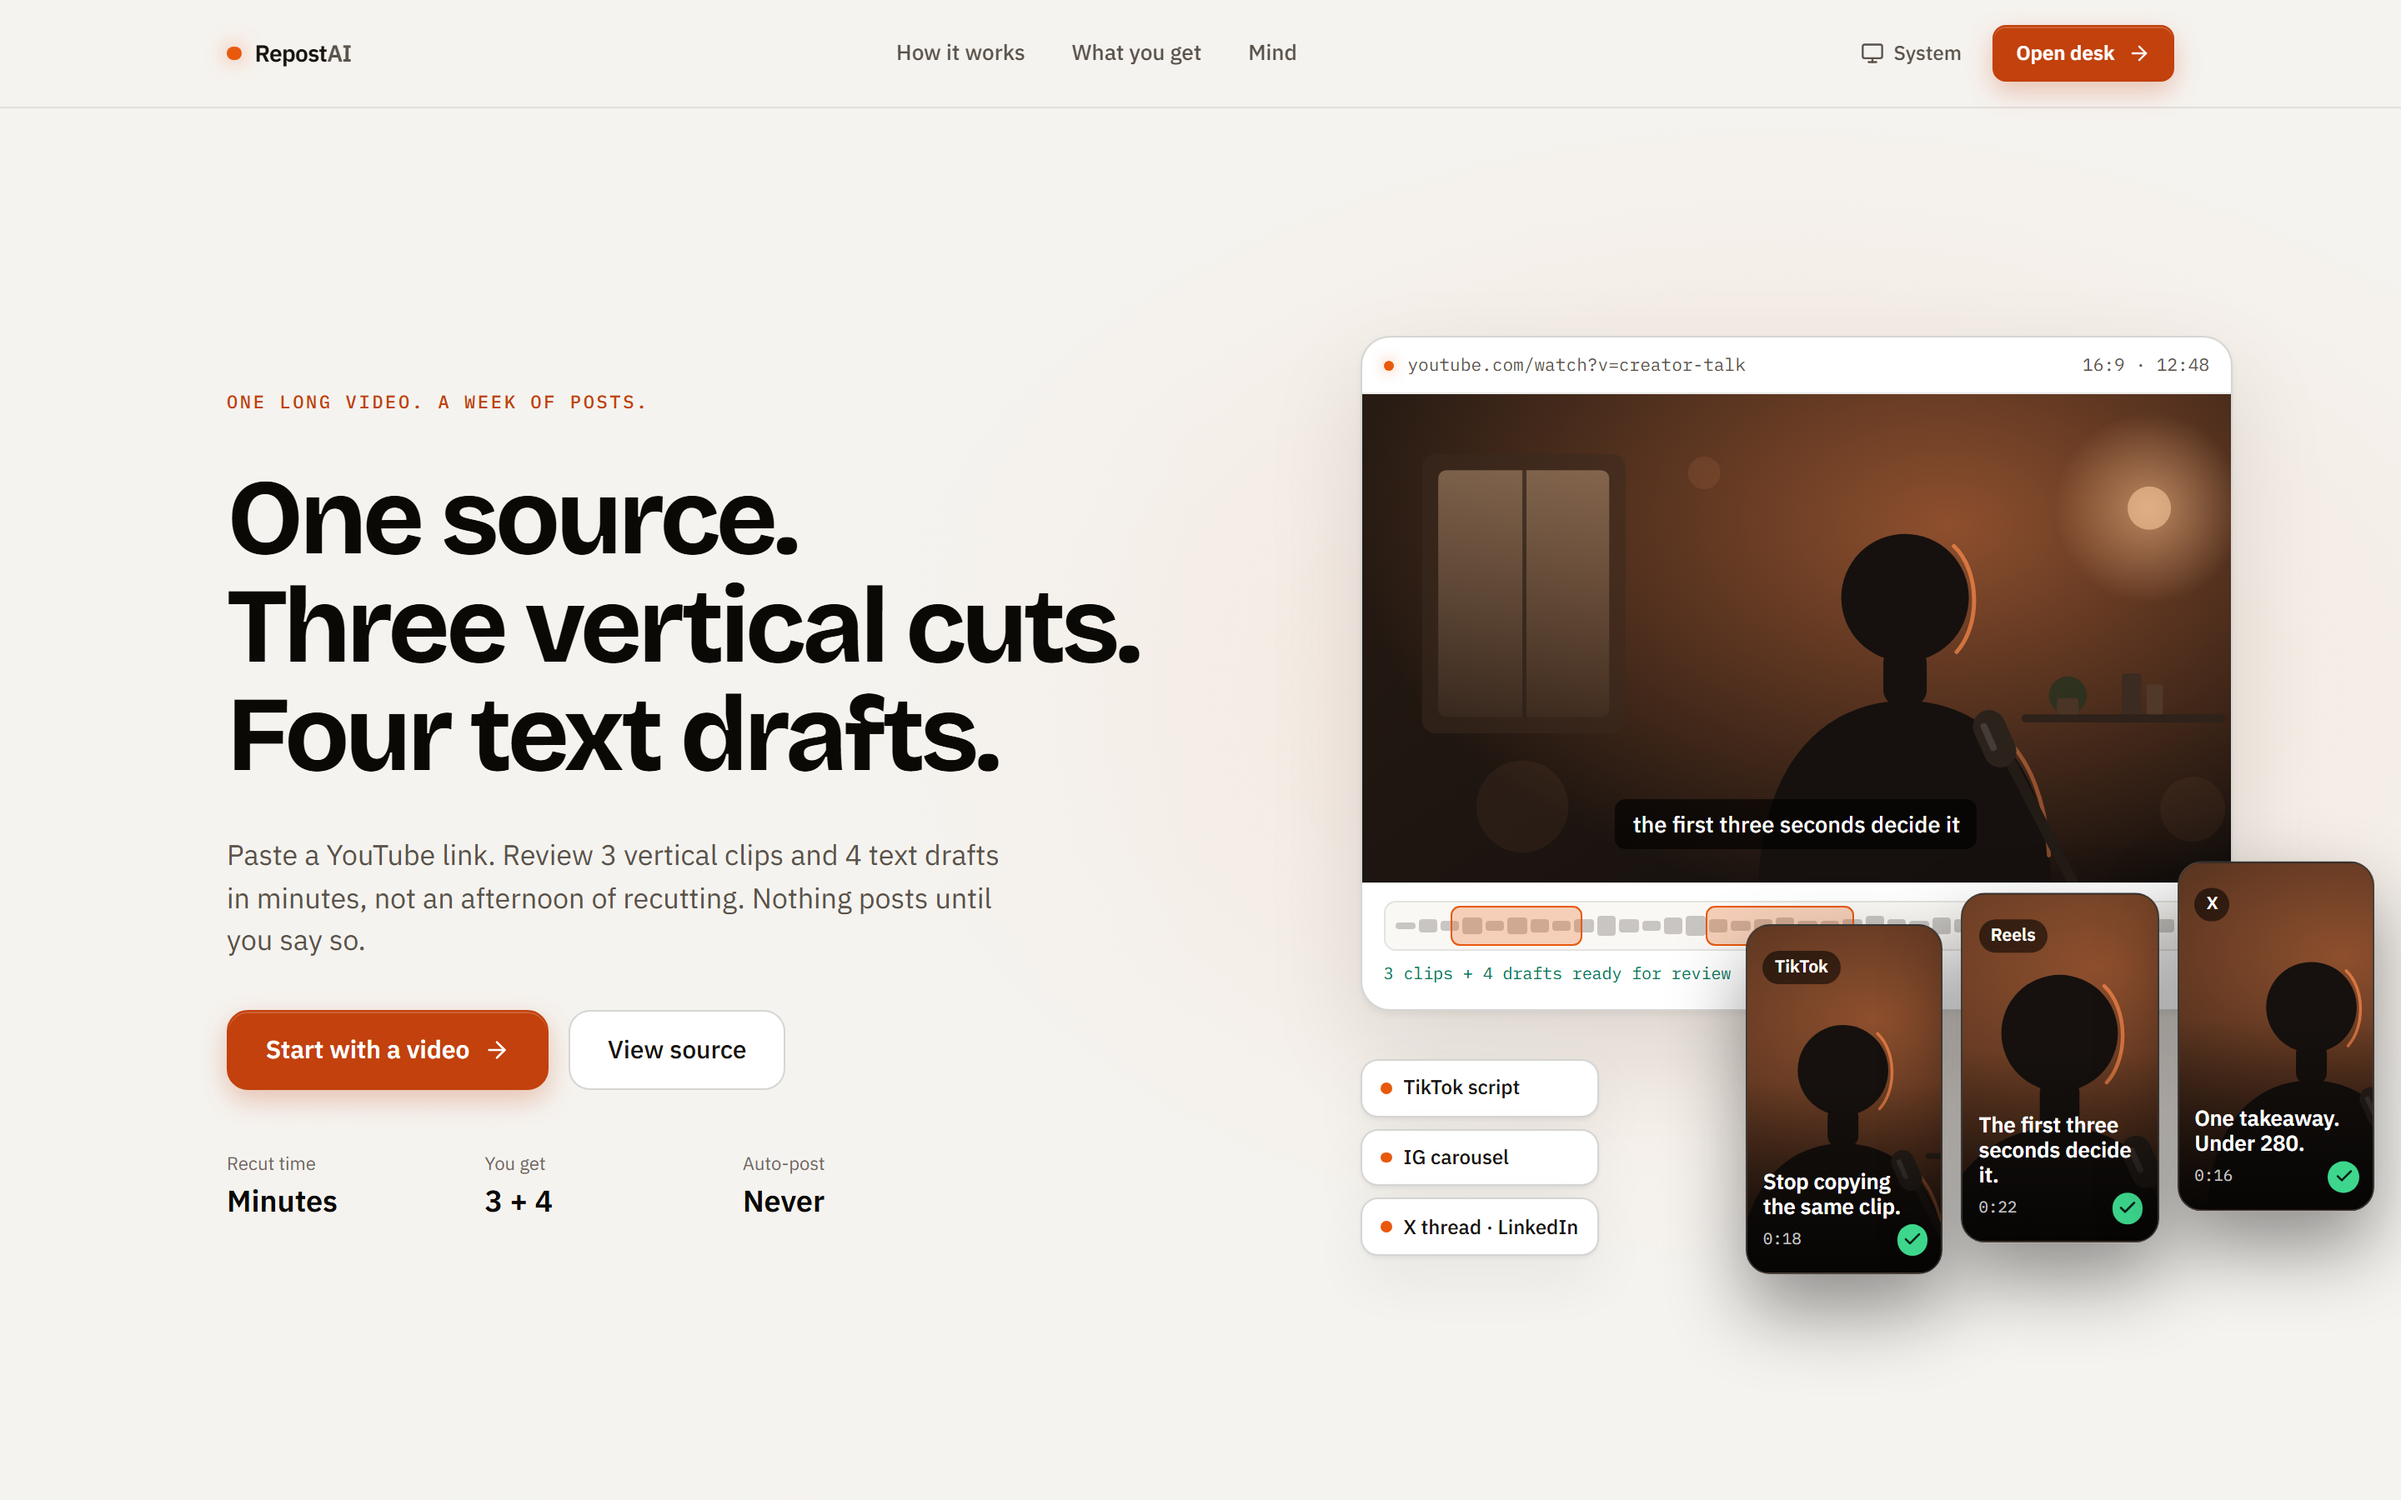
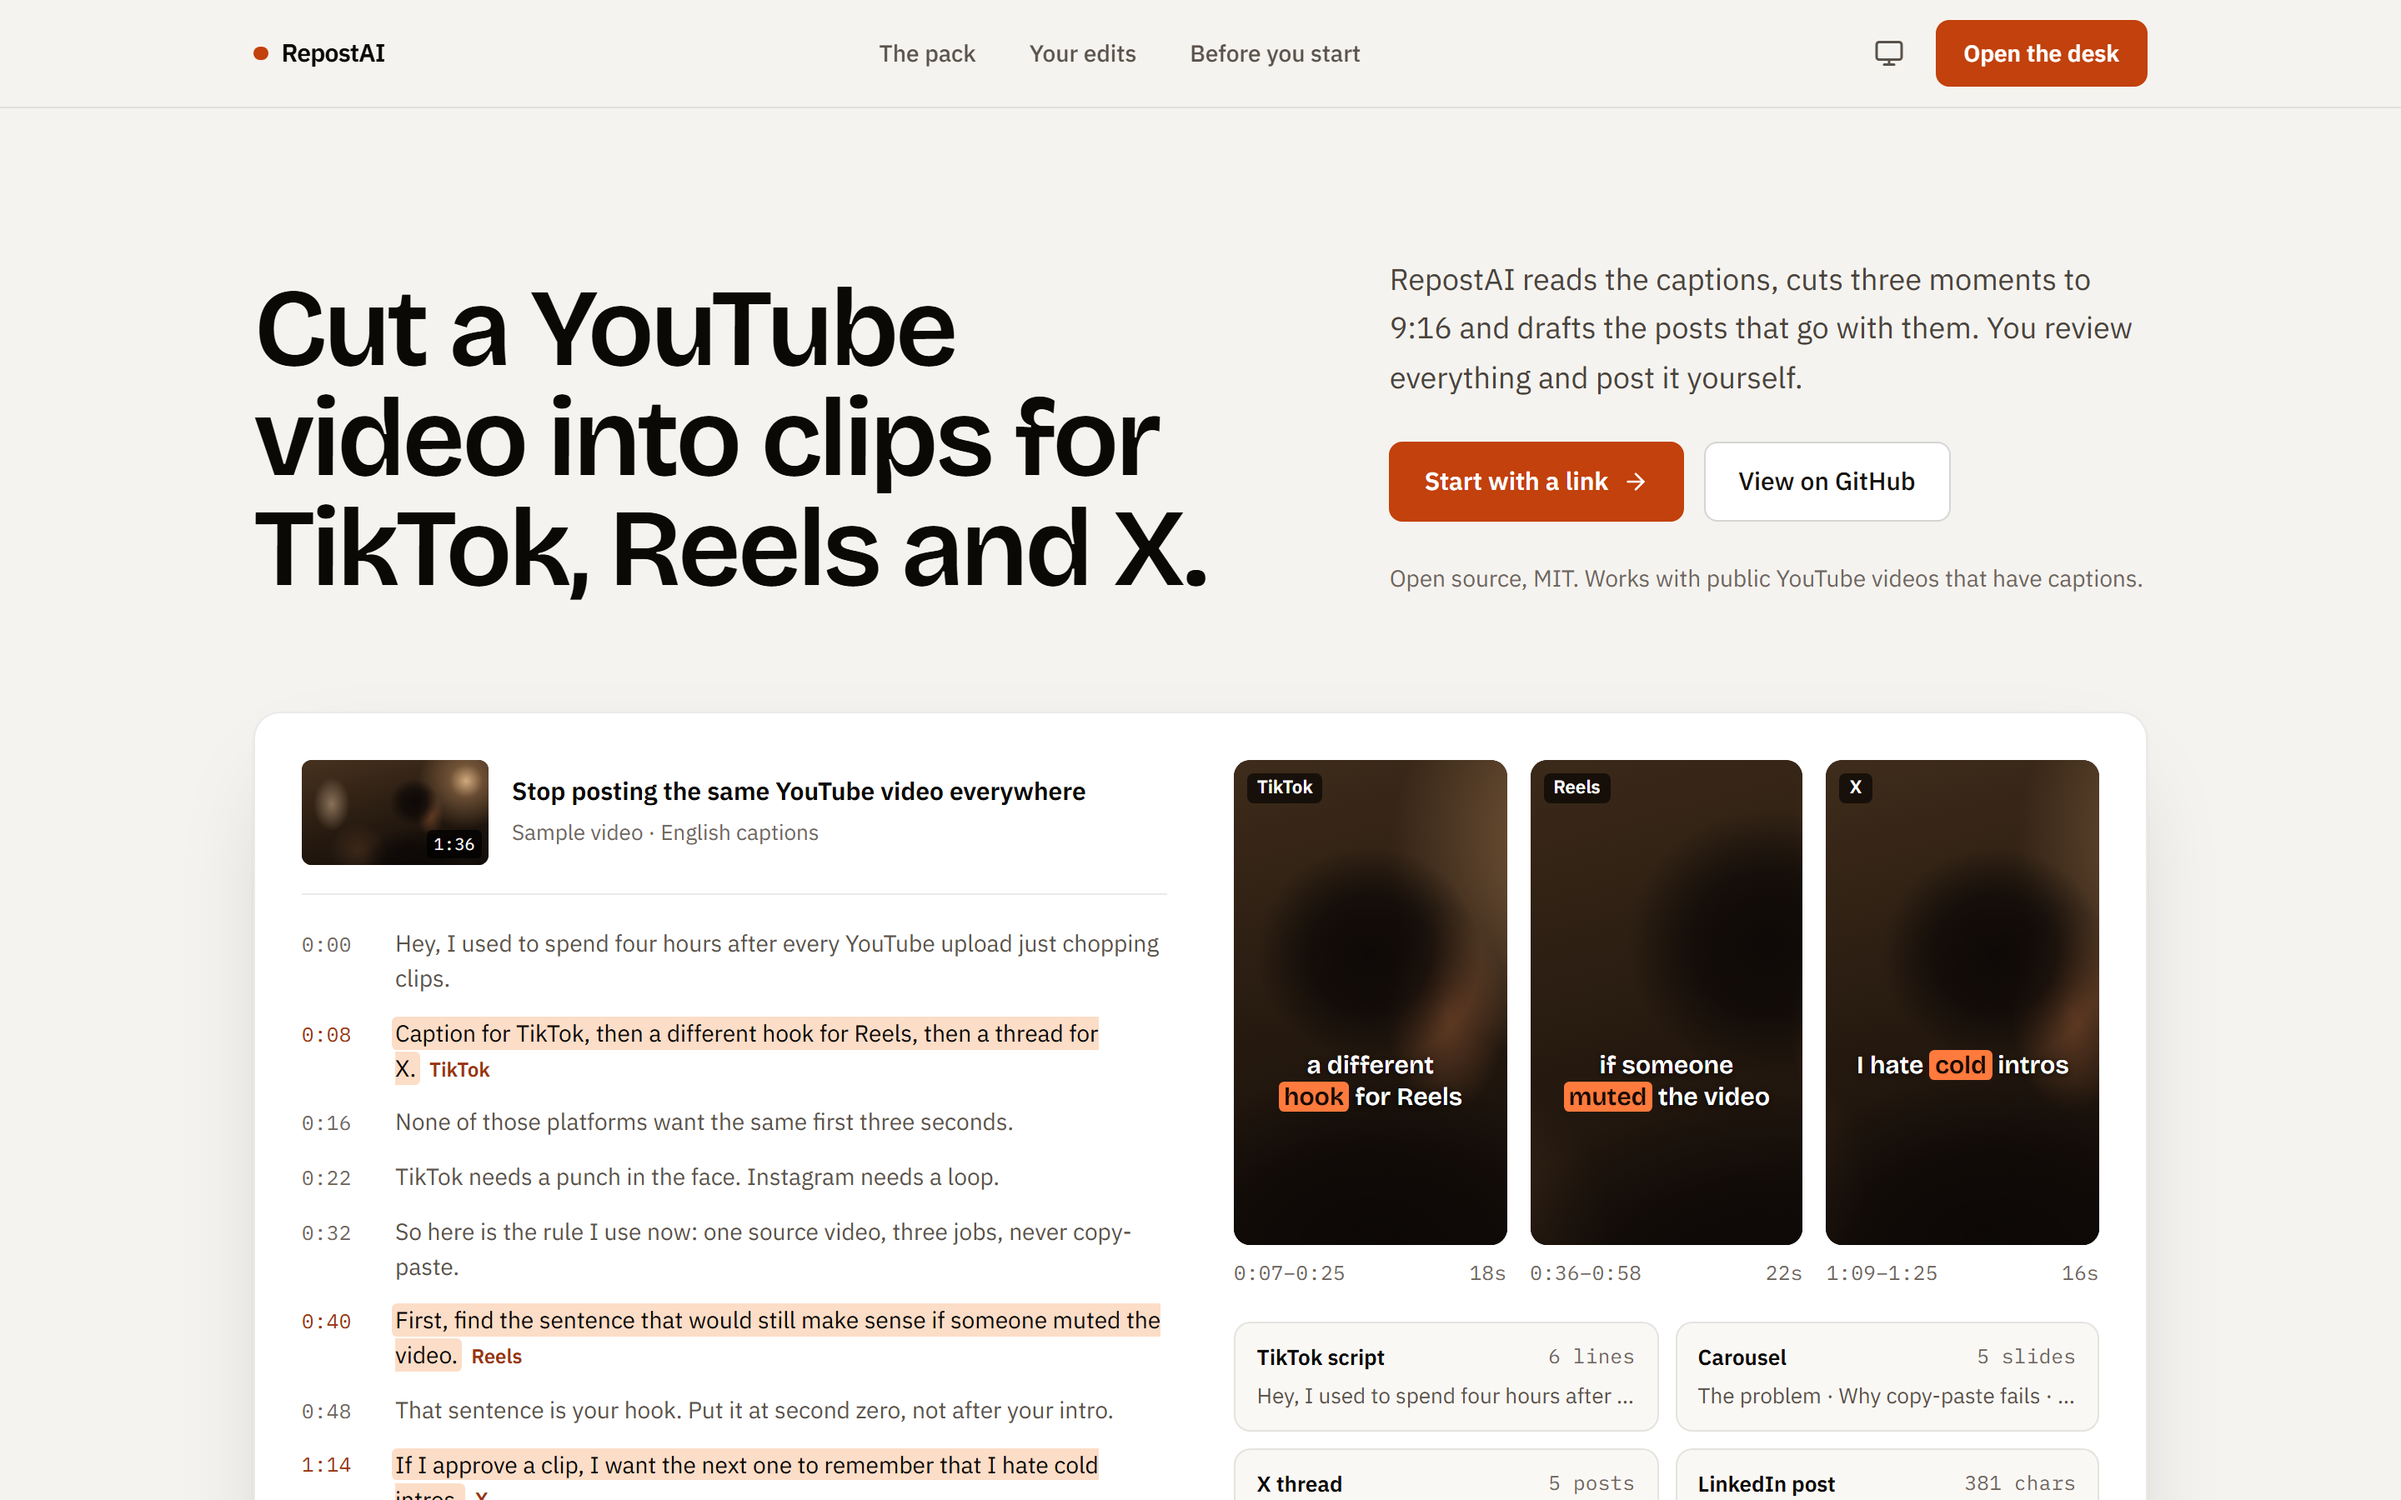
docs: refresh screenshots and README copy for the polished UI
Retake the landing, desk and processing shots. Rename Try the sample,
Alt process, Your projects and How this was chosen to match the new
labels.

diff --git a/README.md b/README.md
@@ -34,14 +34,14 @@ Nothing posts. MP4s download one at a time.
 Pick a source  →  Wait  →  Review what is left  →  Take the pack
 ```
 
-1. **Start** on `/desk` — paste a YouTube link, drop a video file plus its YouTube link for captions, or **Try the sample**.
-2. **Wait** — reading source, finding moments, preparing clips. The page updates by itself.
+1. **Start** on `/desk` — paste a YouTube link, drop a video file plus its YouTube link for captions, or **Run the sample**.
+2. **Wait** — getting the video, picking moments, cutting clips. The page updates by itself.
 3. **Review** — sticky bar shows `ready / need review`. Edited clips count as **Ready**.
 4. **Take** — **Copy pack** copies ready clips plus all four drafts. Download each MP4 separately.
 
 Optional: **Style** (`/voice`) is keep/stop rules from those reviews. **Mind** (`/mind`) is the agent status. You do not need either page to finish a pack.
 
-**Start** on the desk — one box takes everything. Paste a YouTube link (anywhere on the page works) to see its title and thumbnail, drag a video in and the box grows into a drop zone, or try the sample.
+**Start** on the desk — one box takes everything. Paste a YouTube link (anywhere on the page works) to see its title and thumbnail, drag a video in and the box grows into a drop zone, or run the sample.
 
 <p align="center">
   <img src="docs/screenshots/desk.png" alt="Desk — one box for a YouTube link, a dropped video file, or the sample" width="920" />
@@ -63,11 +63,11 @@ Optional: **Style** (`/voice`) is keep/stop rules from those reviews. **Mind** (
 
 ## Why the Mind matters
 
-Fallback recipes exist if the agent is offline — the desk labels that **Alt process**, never as Mind. On the happy path the Mind is the product: one conversation, memory, and a follow-up after every ready pack.
+Fallback recipes exist if the agent is offline. The pack then says **Picked by the built-in picker**, never Mind. On the happy path the Mind is the product: one conversation, memory, and a follow-up after every ready pack.
 
 ### Prove persistence (pack 1 → pack 2)
 
-1. Open [`/desk`](http://localhost:3000/desk), run **Try the sample** or paste a **public YouTube URL with captions**.
+1. Open [`/desk`](http://localhost:3000/desk), click **Run the sample** or paste a **public YouTube URL with captions**.
 2. Reject one clip with a note (for example `skip cold intros`) and/or save a shorter caption.
 3. Open **Style** — keep/stop rules. Open **Mind** → Conversation if you want the transcript.
 4. Run a second pack.
@@ -200,7 +200,7 @@ YouTube jobs need **captions**. Upload-only has no speech-to-text, so after you 
 
 ### Demo sample
 
-On the desk, click **Try the sample**. It runs one built-in demo source: *Stop posting the same YouTube video everywhere*. It skips YouTube download, uses the built-in transcript, and writes local 9:16 files.
+On the desk, click **Run the sample**. It runs one built-in demo source: *Stop posting the same YouTube video everywhere*. It skips YouTube download, uses the built-in transcript, and writes local 9:16 files.
 
 ### Other commands
 
@@ -221,11 +221,11 @@ One source → 3 clips + 4 drafts. You stay the publisher.
 
 ### Desk (`/desk`)
 
-YouTube link, upload + optional caption URL, or the demo sample. **Your projects** lists packs. Channel watch is collapsed under **Optional: automate new uploads**.
+YouTube link, upload + optional caption URL, or the demo sample. **Projects** lists packs, with To review, Running and Reviewed tabs. Channel watch sits in a collapsed **Watch a channel** row.
 
 ### Content pack (`/jobs/[id]`)
 
-Sticky review bar (`ready / need review`, Review next, Approve all remaining, Copy pack). View presets: All platforms, Video-first, Copy-first (display only — all three clips are still produced). Clip cards, four draft teasers, MP4 downloads. **How this was chosen** and the source transcript sit below.
+Sticky review bar (`ready / need review`, Review next, Approve all remaining, Copy pack). View presets: All platforms, Video-first, Copy-first (display only — all three clips are still produced). Clip cards, four draft teasers, MP4 downloads. **Why these moments** and the source transcript sit below.
 
 Edited and approved clips are **Ready**. Needs-review clips are not copied without a warning.
 
